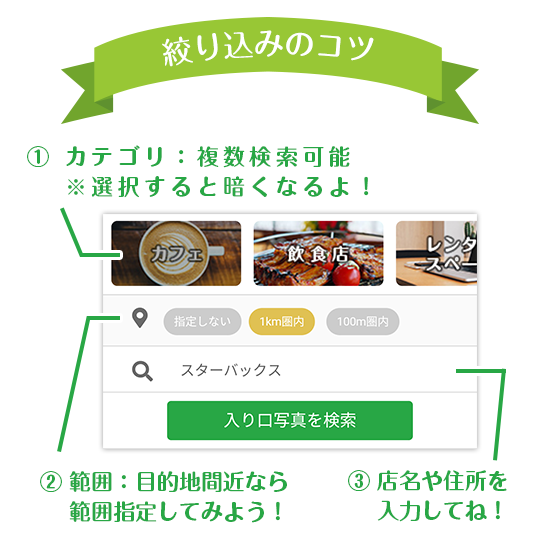
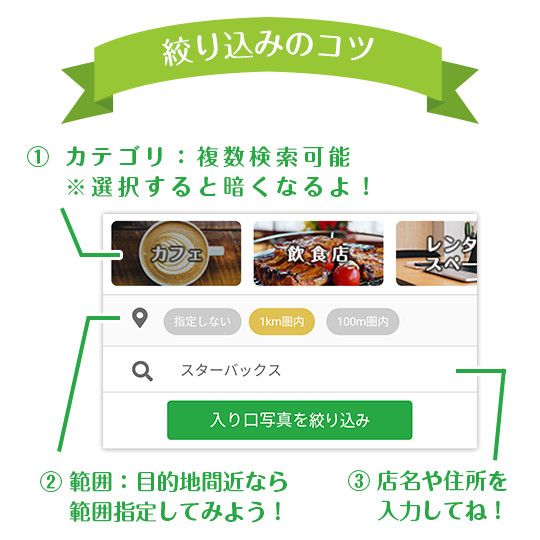
PC画面崩れの修正、画像の差し替え

Changed region(s): [[0.3259, 0.7407, 0.7704, 0.8296]]

diff --git a/public/css/style.css b/public/css/style.css
@@ -606,6 +606,9 @@ canvas {
 
 	.fixed-top {
 		max-width: 500px;
+		width: 100%;
+		right: inherit;
+		left: inherit;
 	}
 
 	#sidr {

diff --git a/resources/views/home/index.blade.php b/resources/views/home/index.blade.php
@@ -51,7 +51,7 @@
                 <li class="py-2">
                     <div class="row">
                         <div class="col-10 offset-1 pb-2">
-                            <button class="btn btn-success btn btn-block">入り口写真を検索</button>
+                            <button class="btn btn-success btn btn-block">入り口写真を絞り込み</button>
                         </div>
                     </div>
                 </li>
